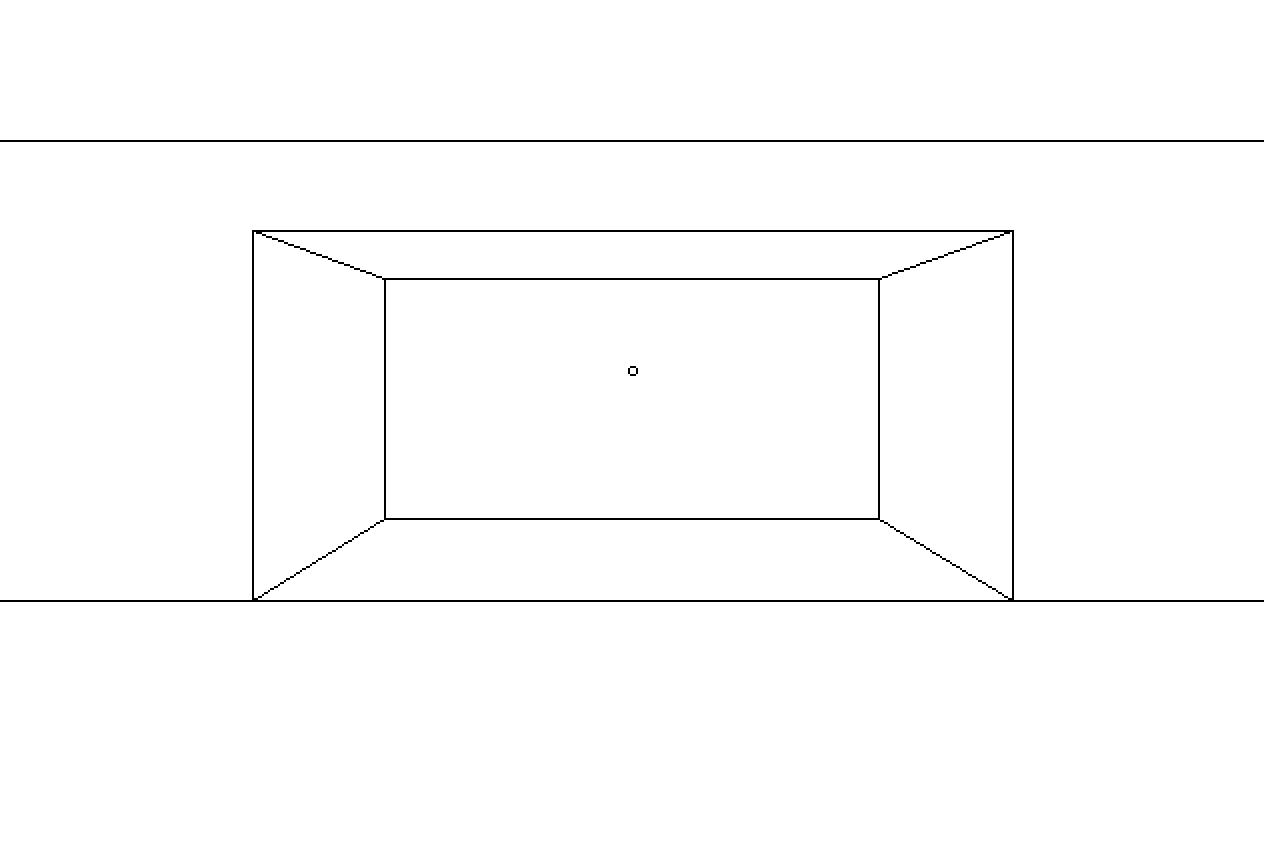
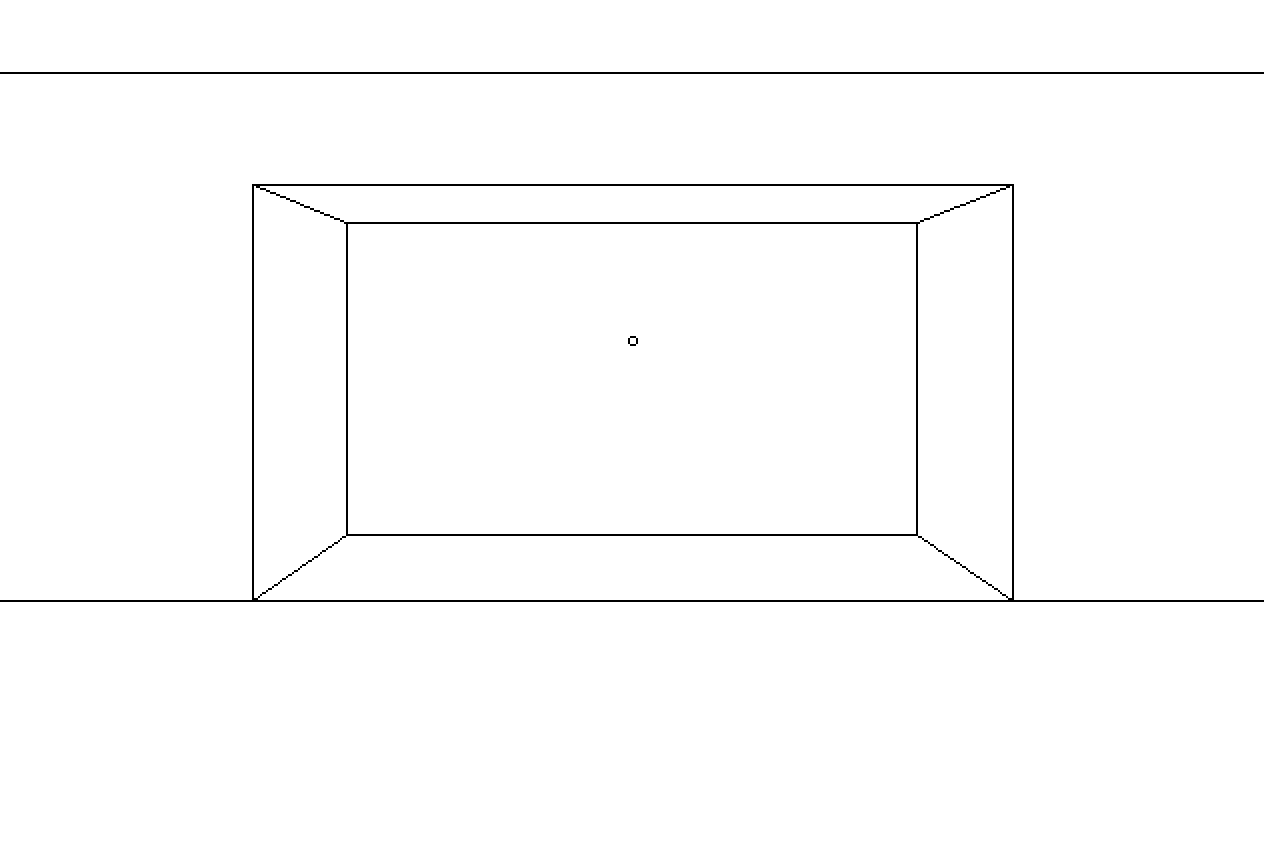
원근 가이드: 천장 얇게(y36), 소실점 눈높이(y170), 가게 깊이 얕게
Claude-Session: https://claude.ai/code/session_01JodrzemTroe6BHDEPyP4EJ

diff --git a/tools/pixellab/guide_jr_corridor_v1.py b/tools/pixellab/guide_jr_corridor_v1.py
@@ -1,22 +1,22 @@
 """중림 통로 칸 원근 가이드(선만, 사용자 10-31 「그림 말고 선으로만 원근을 잡아서 첨부」).
-흰 바탕에 검은 1px 선: 천장 선 y70, 뒷벽 아래 선 y300(수평), 소실점 (316,185),
-가운데 가게 입구(x126~506, y115~300)와 그 안쪽으로 들어간 방(소실점으로 모이는 선).
+흰 바탕에 검은 1px 선: 천장 선 y36(사용자: 천장이 너무 큼 → 얇게), 뒷벽 아래 선 y300(수평), 소실점 (316,170)=뒷벽 앞 사람(142) 눈높이,
+가운데 가게 입구(x126~506, y92~300, 사람의 약 1.5배)와 그 안쪽으로 들어간 방(소실점으로 모이는 선).
 천장 모서리 사선은 옆벽을 부르므로 긋지 않는다.
 바닥에는 선을 긋지 않는다(바닥 판 선이 그려짐)."""
 import sys
 from PIL import Image, ImageDraw
 P = sys.argv[1]
 W, H = 632, 424
-VX, VY = 316, 185
+VX, VY = 316, 170
 im = Image.new('RGB', (W, H), (255, 255, 255)); d = ImageDraw.Draw(im); K = (0, 0, 0)
-CY, FY = 70, 300
+CY, FY = 36, 300
 d.line([(0, CY), (W, CY)], fill=K)            # 천장과 뒷벽이 만나는 선
 d.line([(0, FY), (W, FY)], fill=K)            # 뒷벽 아래 선
 def toward(x, y, t):                           # (x,y)에서 소실점 쪽으로 t만큼
     return (x + (VX - x) * t, y + (VY - y) * t)
-x0, x1, y0, y1 = 126, 506, 115, FY             # 가게 입구
+x0, x1, y0, y1 = 126, 506, 92, FY             # 가게 입구
 d.rectangle([x0, y0, x1, y1], outline=K)
-t = 0.35                                       # 가게 안 깊이
+t = 0.25                                       # 가게 안 깊이
 b = [toward(x0, y0, t), toward(x1, y0, t), toward(x1, y1, t), toward(x0, y1, t)]
 for p, q in zip([(x0, y0), (x1, y0), (x1, y1), (x0, y1)], b): d.line([p, q], fill=K)
 d.polygon(b, outline=K)

diff --git a/game-src/art/pixellab-test-20261028/specs/jr_b1_p2_v5_review.md b/game-src/art/pixellab-test-20261028/specs/jr_b1_p2_v5_review.md
@@ -20,6 +20,7 @@
 - 사용자: v2(10-31): 참고 그림(①)을 넣어 ①을 베낌·사람 그려짐 → 참고 그림 없이(사용자 「참고 그림은 왜 넣어」), 벽·바닥·천장 문장은 ①과 같게. 가게 색이 전부 빨감(사용자) → 철물점은 차가운 흰 형광등
 - 사용자: v3(10-31): 바닥 이음선 또 생김 → 「선·격자·판」 낱말 쓰지 않고 있는 모양만(물에 젖은 한 장처럼 부은 콘크리트). 가게가 왼쪽에 몰림 → 가게를 더 크게 가운데에(사용자: 그래야 이어 붙이고 기둥으로 가린다). 팔레트는 ①과 같게, 가게 빛만 흰색
 - 사용자: v4(10-31): 장마다 원근이 다름이 가장 큰 문제(사용자) → 「그림 말고 선으로만 원근을 잡아서 첨부」(사용자 제안): 선 가이드 jr_corridor_guide_v1을 참고 그림으로
+- 사용자: 가이드 고침: 위 천장이 너무 큼(사용자) → 천장선 y36, 소실점 y170(눈높이), 가게 안 깊이 얕게
 
 ## 설계안·위키 항목 대조
 
@@ -67,7 +68,7 @@
 - 이유 없는 채움 물건·같은 물건 두 번·쓸데없이 긴 설명이 있나?
   - 같은 물건 두 번 없음, packed+
 - 원근·바닥 몫·양옆 벽·문·채우기가 이 장면에 정한 대로인가?
-  - 통로 원근(뒷벽 끝까지 곧게), 옆벽 없음, 가게 가운데 80%, 양끝 10% 비움, 바닥은 선 낱말 없이 부은 콘크리트, 참고 그림 없음, 벽·천장 ①과 같음, 팔레트 ①과 같음(가게 빛만 흰색), 원근은 선 가이드(뒷벽선 y300·천장선 y70·소실점 316,185·가게 입구 x126~506)
+  - 통로 원근(뒷벽 끝까지 곧게), 옆벽 없음, 가게 가운데 80%, 양끝 10% 비움, 바닥은 선 낱말 없이 부은 콘크리트, 참고 그림 없음, 벽·천장 ①과 같음, 팔레트 ①과 같음(가게 빛만 흰색), 원근은 선 가이드(뒷벽선 y300·천장선 y36·소실점 316,170·가게 입구 x126~506 y92~300)
 
 ## 2차 요청문 (1996자)
 
